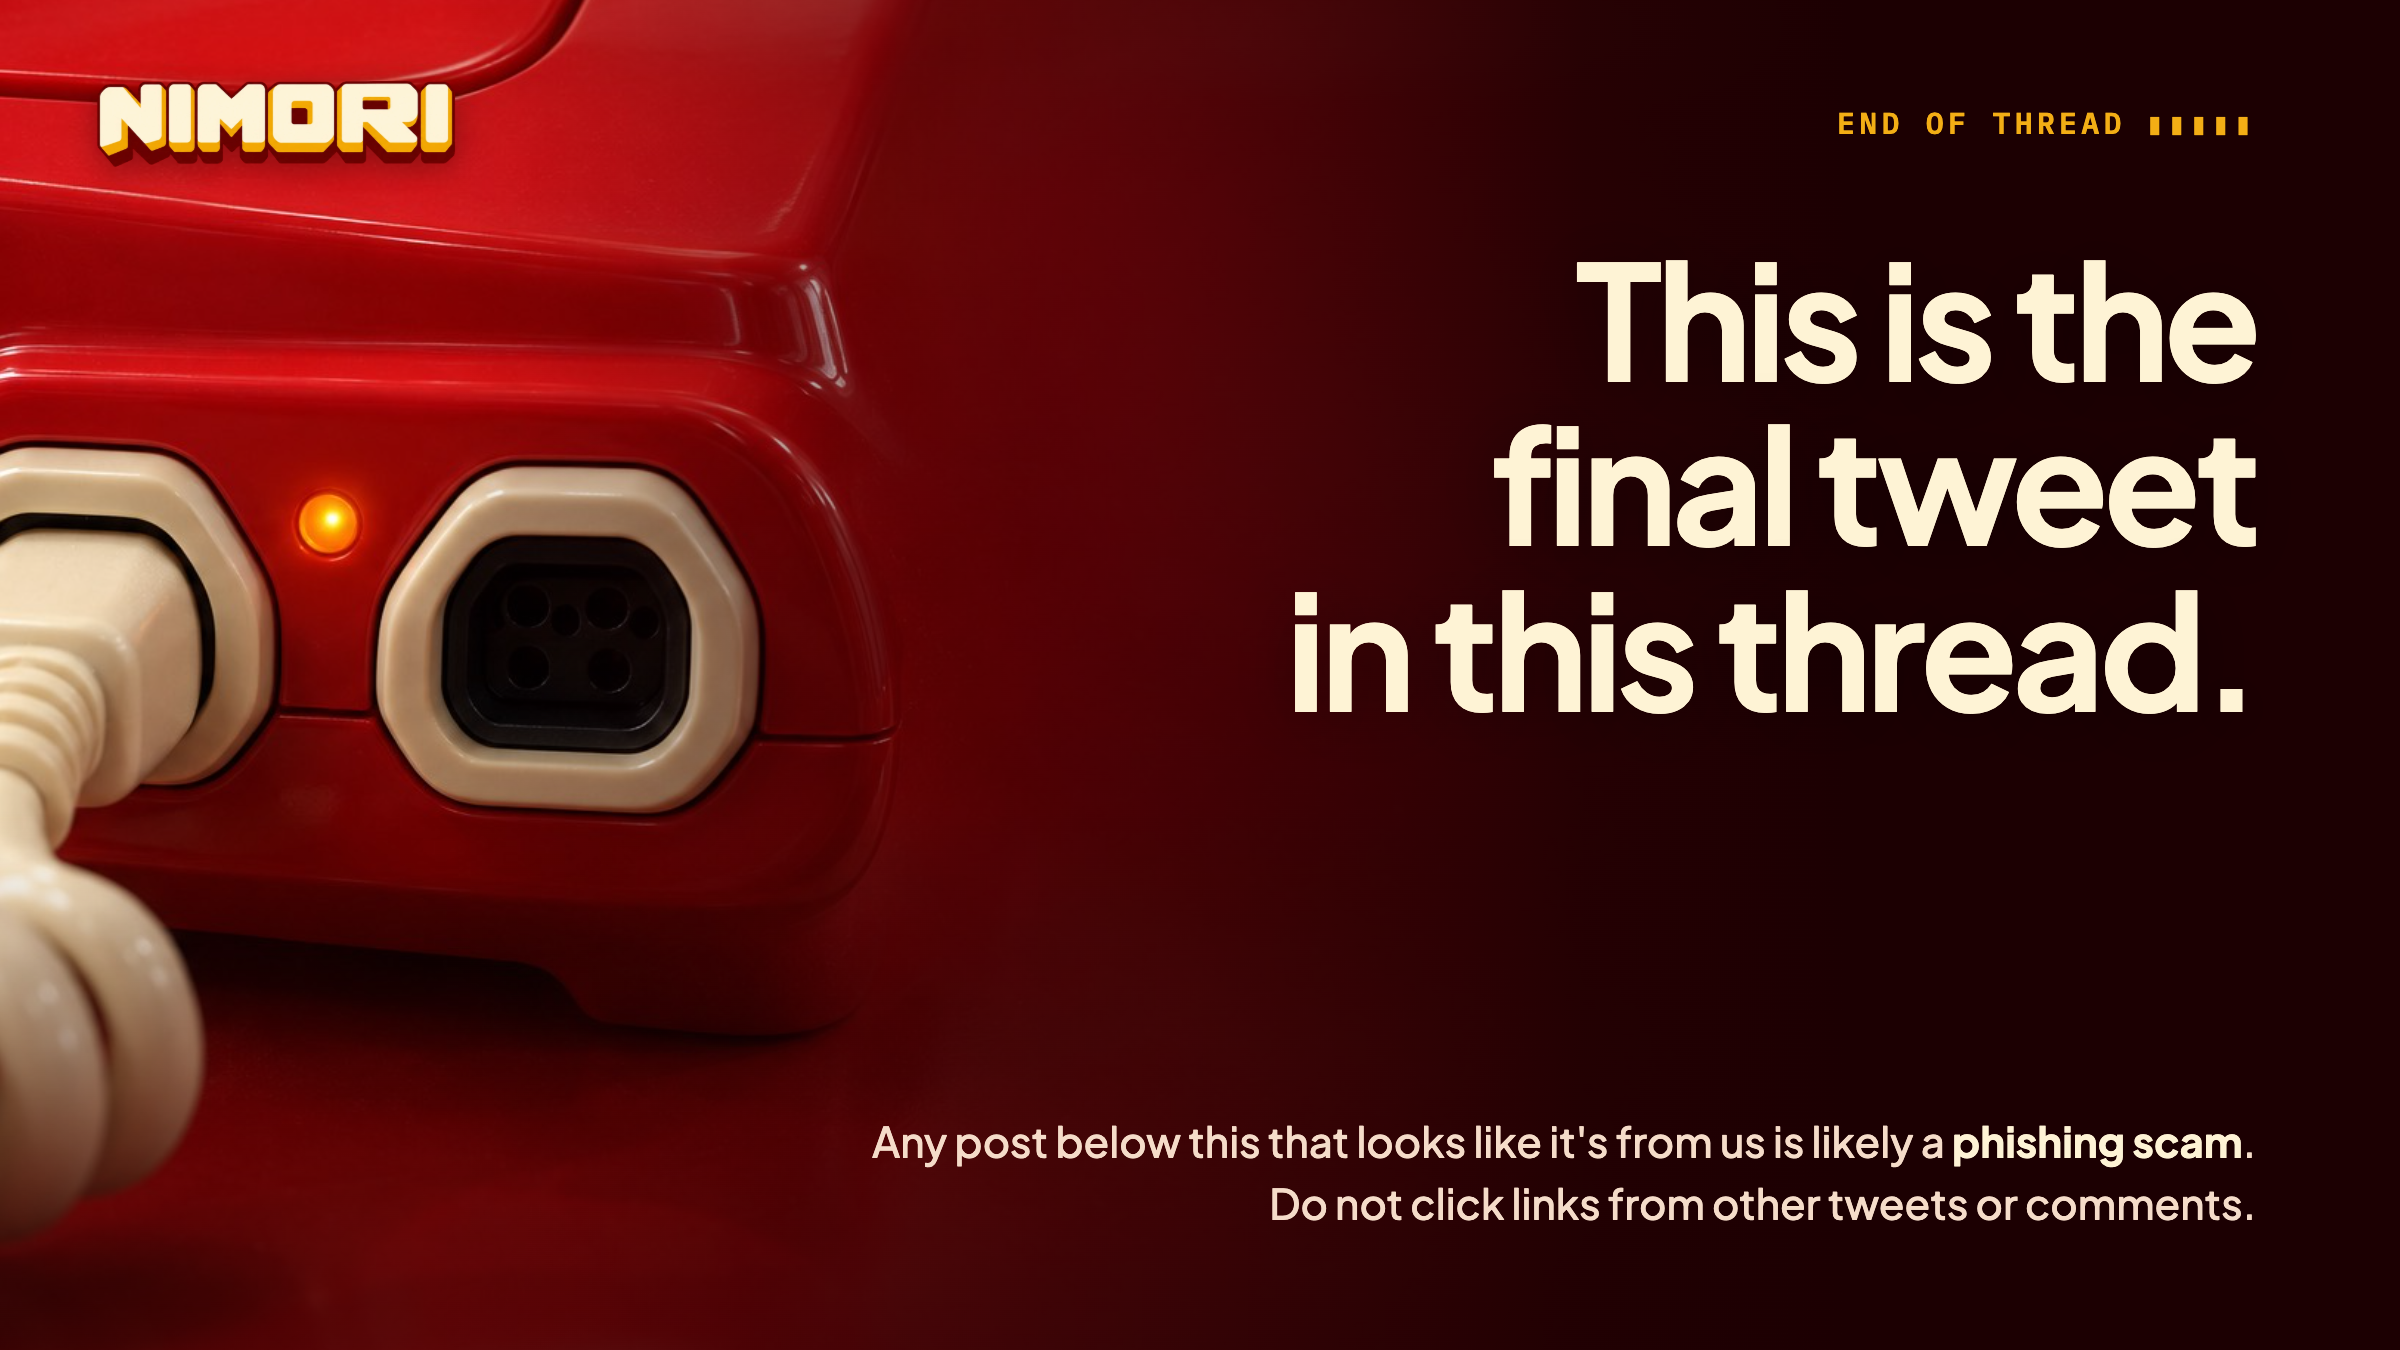
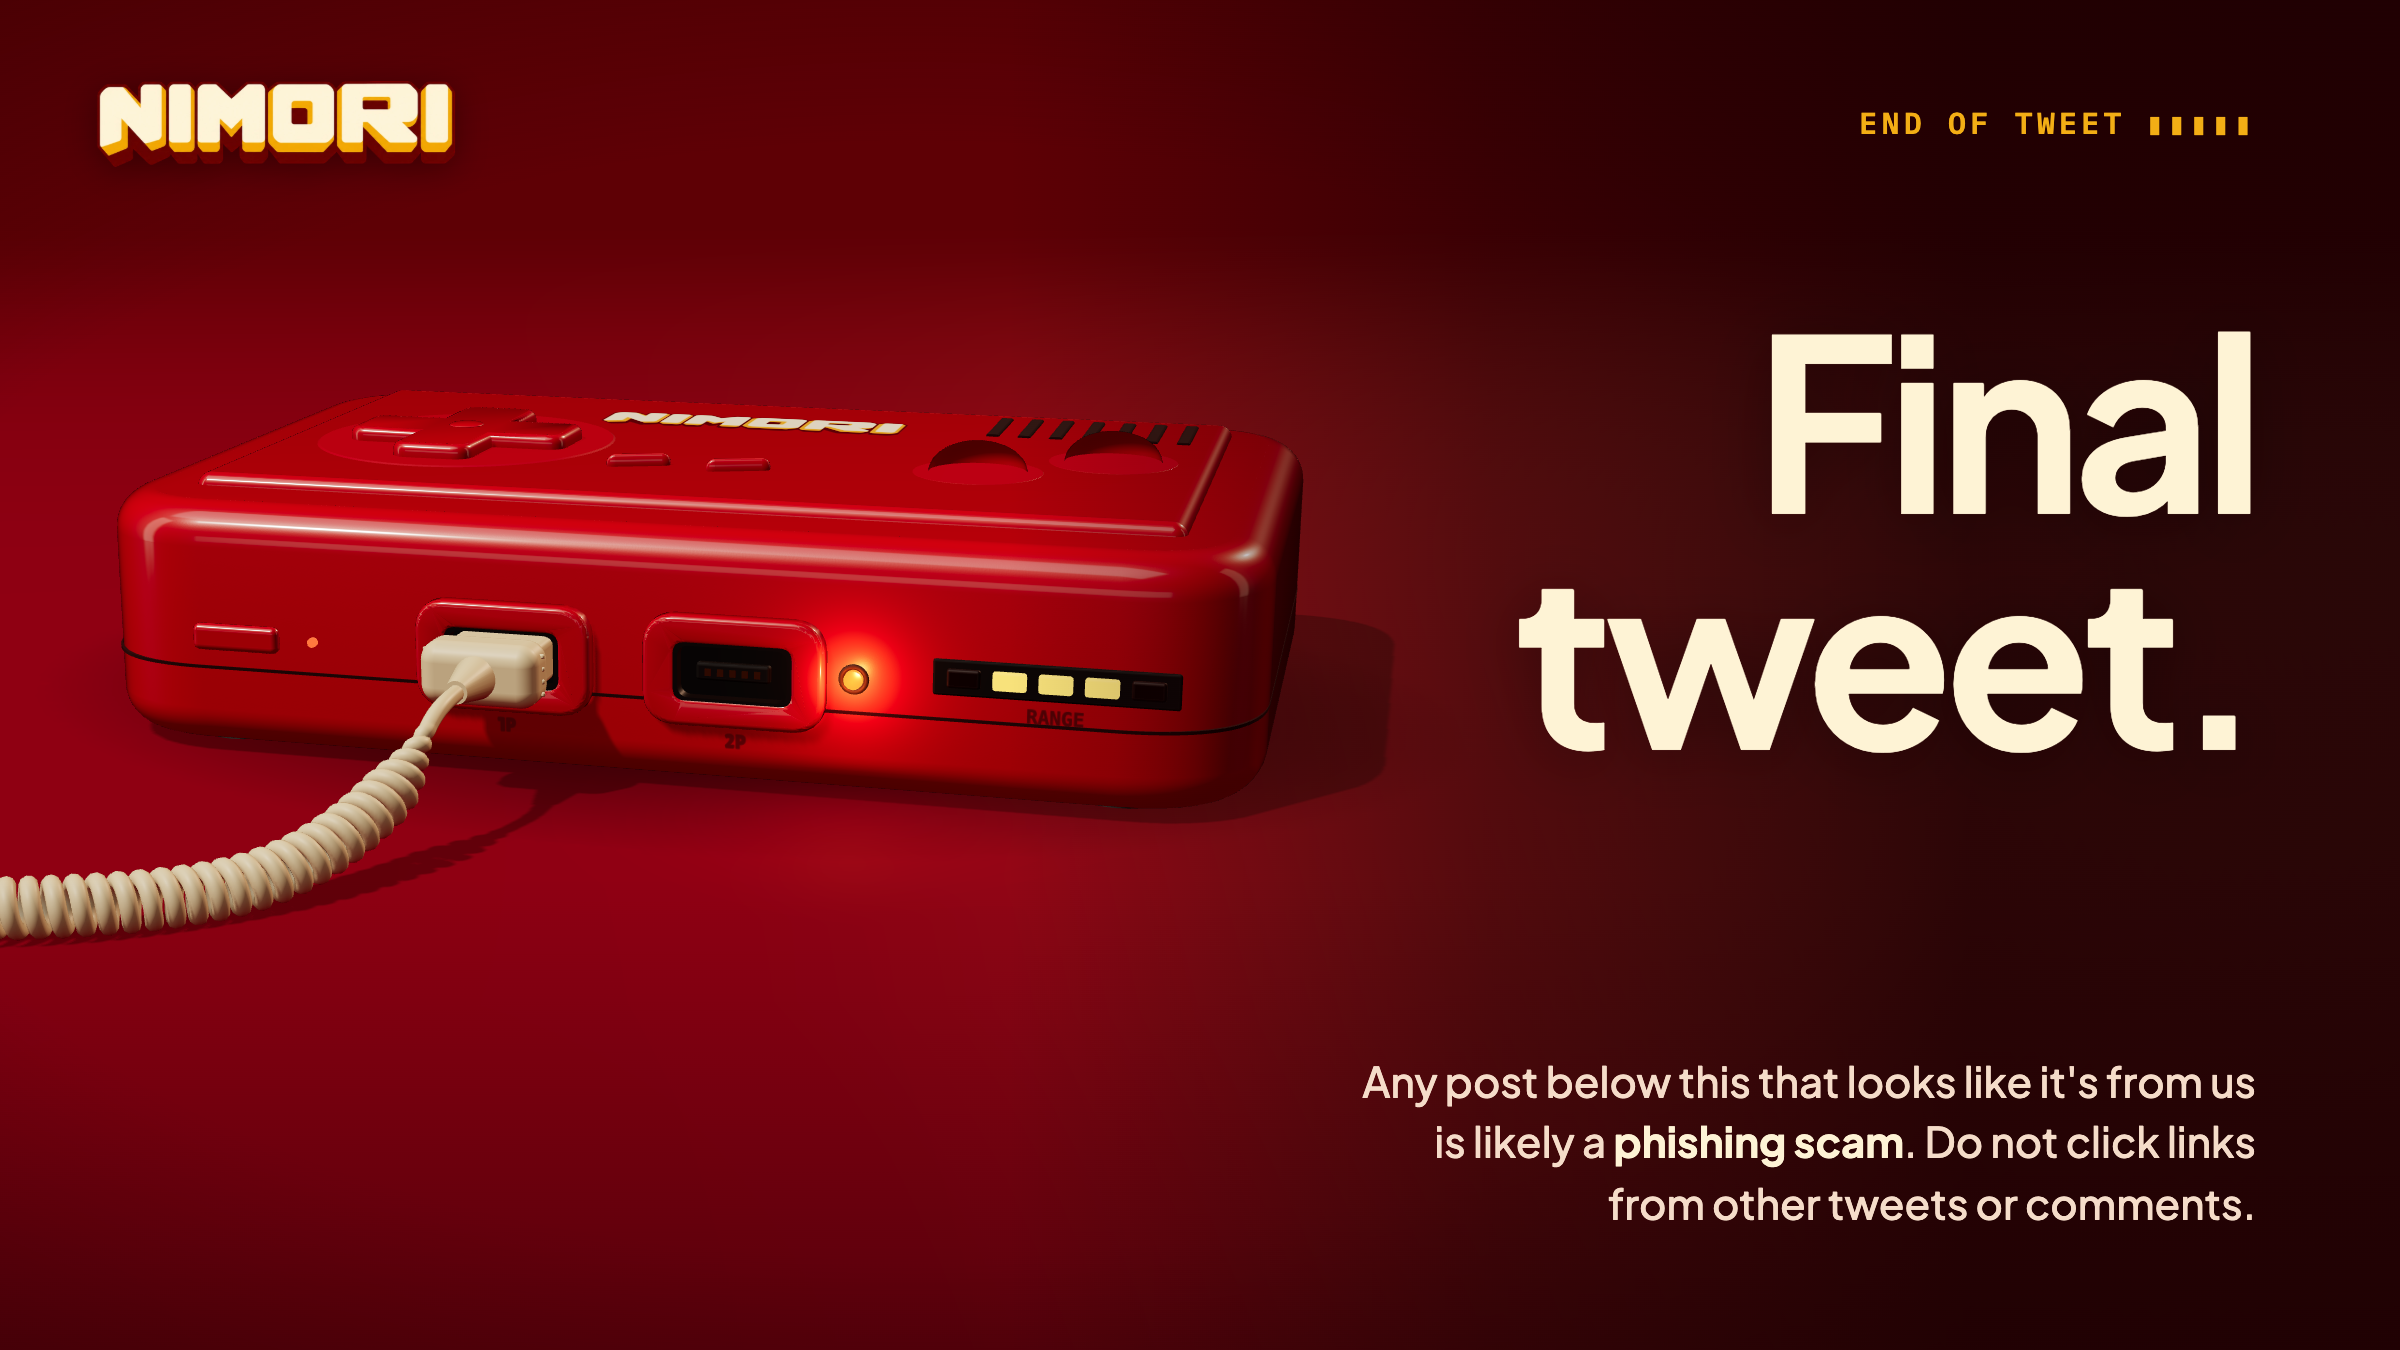
Final-tweet visual: app console render, 'Final tweet.' / END OF TWEET

diff --git a/brand/posts/final-tweet.html b/brand/posts/final-tweet.html
@@ -3,19 +3,17 @@
 <style>
 *{box-sizing:border-box;margin:0}
 body{width:1200px;height:675px;overflow:hidden;background:#1c0002;font-family:"Plus Jakarta Sans",sans-serif}
-.card{position:relative;width:1200px;height:675px;background-color:#1c0002;background:#1c0002 url(../../mockups/hybrid/img/lobby.jpg) -190px 50%/auto 112% no-repeat}
-.shade{position:absolute;inset:0;background:
-  linear-gradient(90deg,rgba(28,0,2,0) 18%,rgba(28,0,2,.55) 44%,rgba(28,0,2,.93) 66%,#1c0002 77%),
-  linear-gradient(0deg,rgba(28,0,2,.55),rgba(28,0,2,0) 40%)}
+.card{position:relative;width:1200px;height:675px;background:#1c0002 url(console-lobby.png) 0 0/1200px 675px no-repeat}
+.shade{position:absolute;inset:0;background:linear-gradient(90deg,rgba(28,0,2,0) 42%,rgba(28,0,2,.55) 62%,rgba(28,0,2,.88) 82%),linear-gradient(0deg,rgba(28,0,2,.5),rgba(28,0,2,0) 35%)}
 .logo{position:absolute;left:48px;top:40px;height:44px;filter:drop-shadow(0 3px 8px rgba(0,0,0,.35))}
 .tag{position:absolute;right:72px;top:52px;font:600 15px "IBM Plex Mono",monospace;letter-spacing:.14em;color:#f3ae15}
 .tag i{font-style:normal;letter-spacing:2px;margin-left:10px}
-h1{position:absolute;right:72px;top:118px;text-align:right;color:#fef3d5;font-weight:700;font-size:80px;line-height:1.03;letter-spacing:-.035em;text-shadow:0 4px 30px rgba(0,0,0,.35)}
+h1{position:absolute;right:72px;top:150px;text-align:right;color:#fef3d5;font-weight:700;font-size:120px;line-height:.98;letter-spacing:-.035em;text-shadow:0 4px 30px rgba(0,0,0,.35)}
 p{position:absolute;right:72px;bottom:58px;text-align:right;color:#f5dcc9;font-weight:500;font-size:21px;line-height:1.45}
 p b{color:#fef3d5;font-weight:700}
 </style></head><body><div class="card"><div class="shade"></div>
 <img class="logo" src="../../img/wordmark-lg.webp" alt="NIMORI">
-<div class="tag">END OF THREAD<i>▮▮▮▮▮</i></div>
-<h1>This is the<br>final tweet<br>in this thread.</h1>
-<p>Any post below this that looks like it's from us is likely a <b>phishing scam</b>.<br>Do not click links from other tweets or comments.</p>
+<div class="tag">END OF TWEET<i>▮▮▮▮▮</i></div>
+<h1>Final<br>tweet.</h1>
+<p>Any post below this that looks like it's from us<br>is likely a <b>phishing scam</b>. Do not click links<br>from other tweets or comments.</p>
 </div></body></html>
